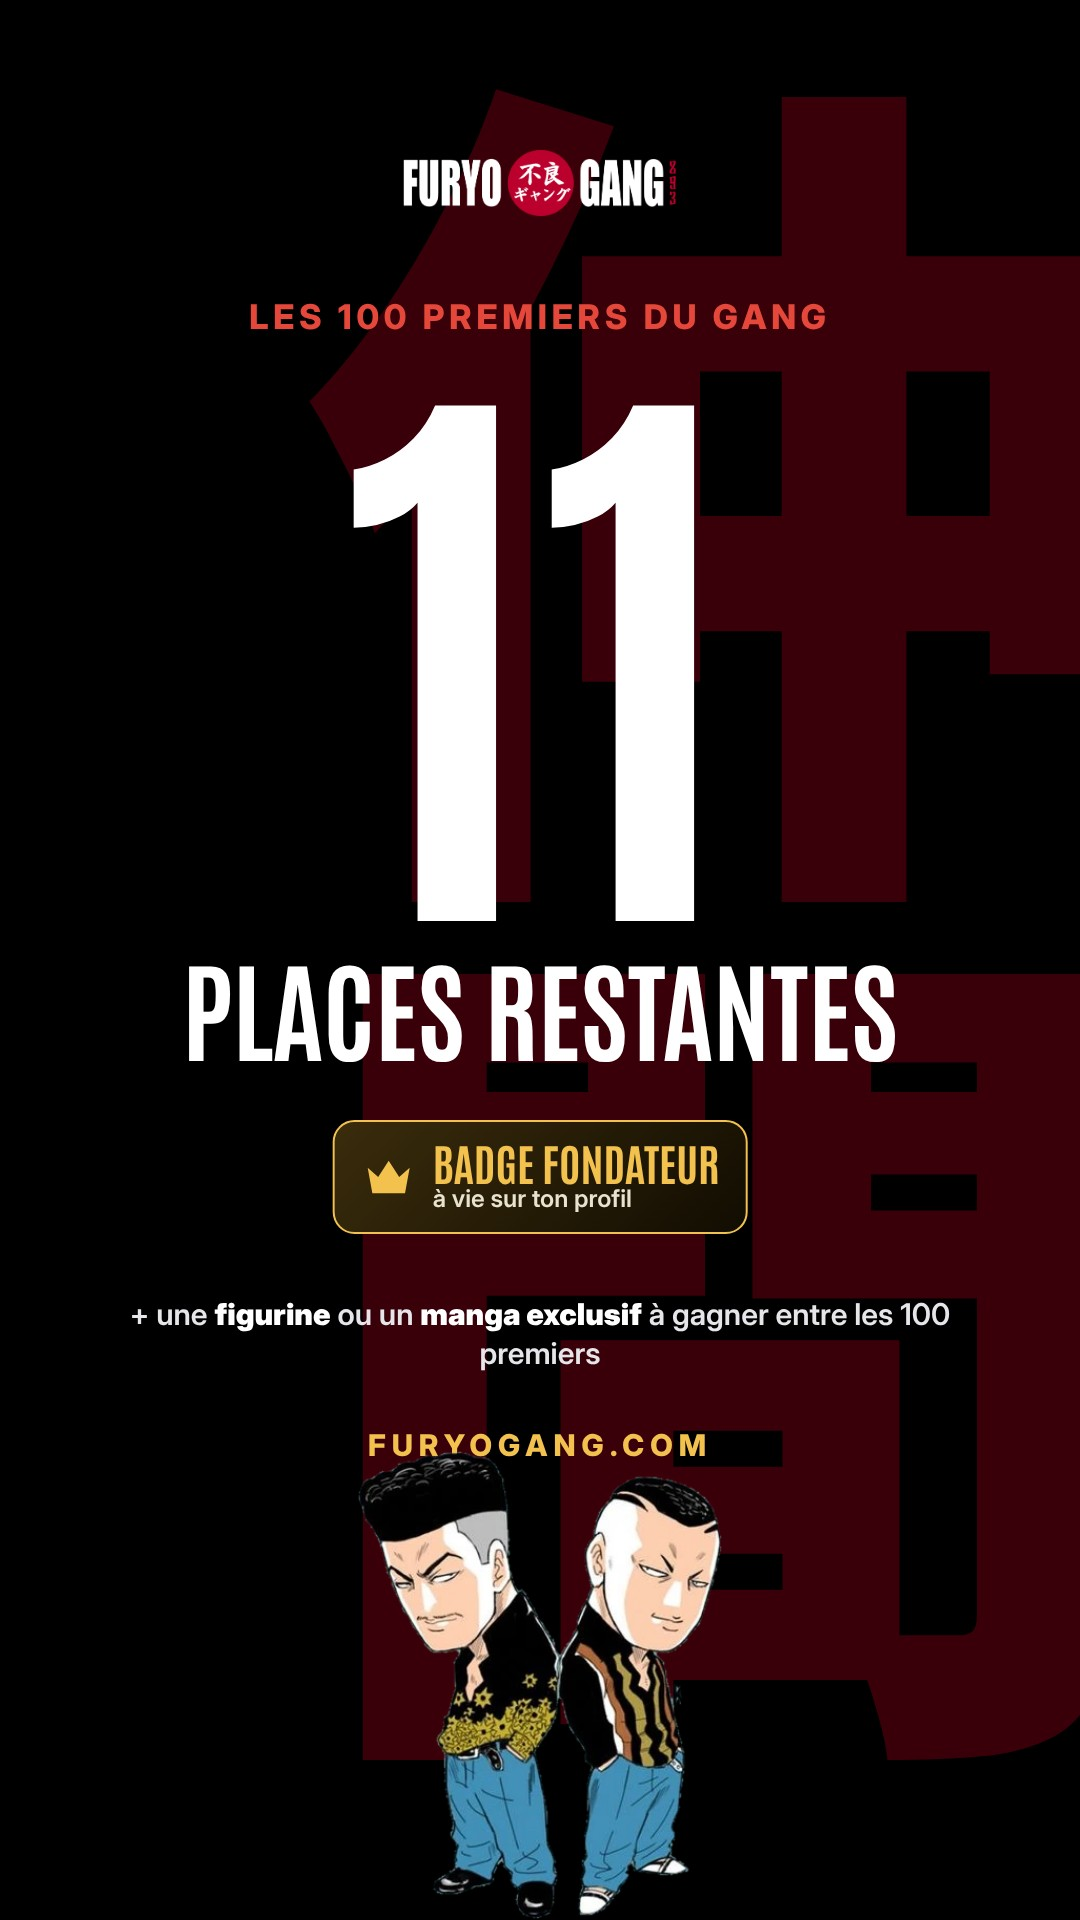
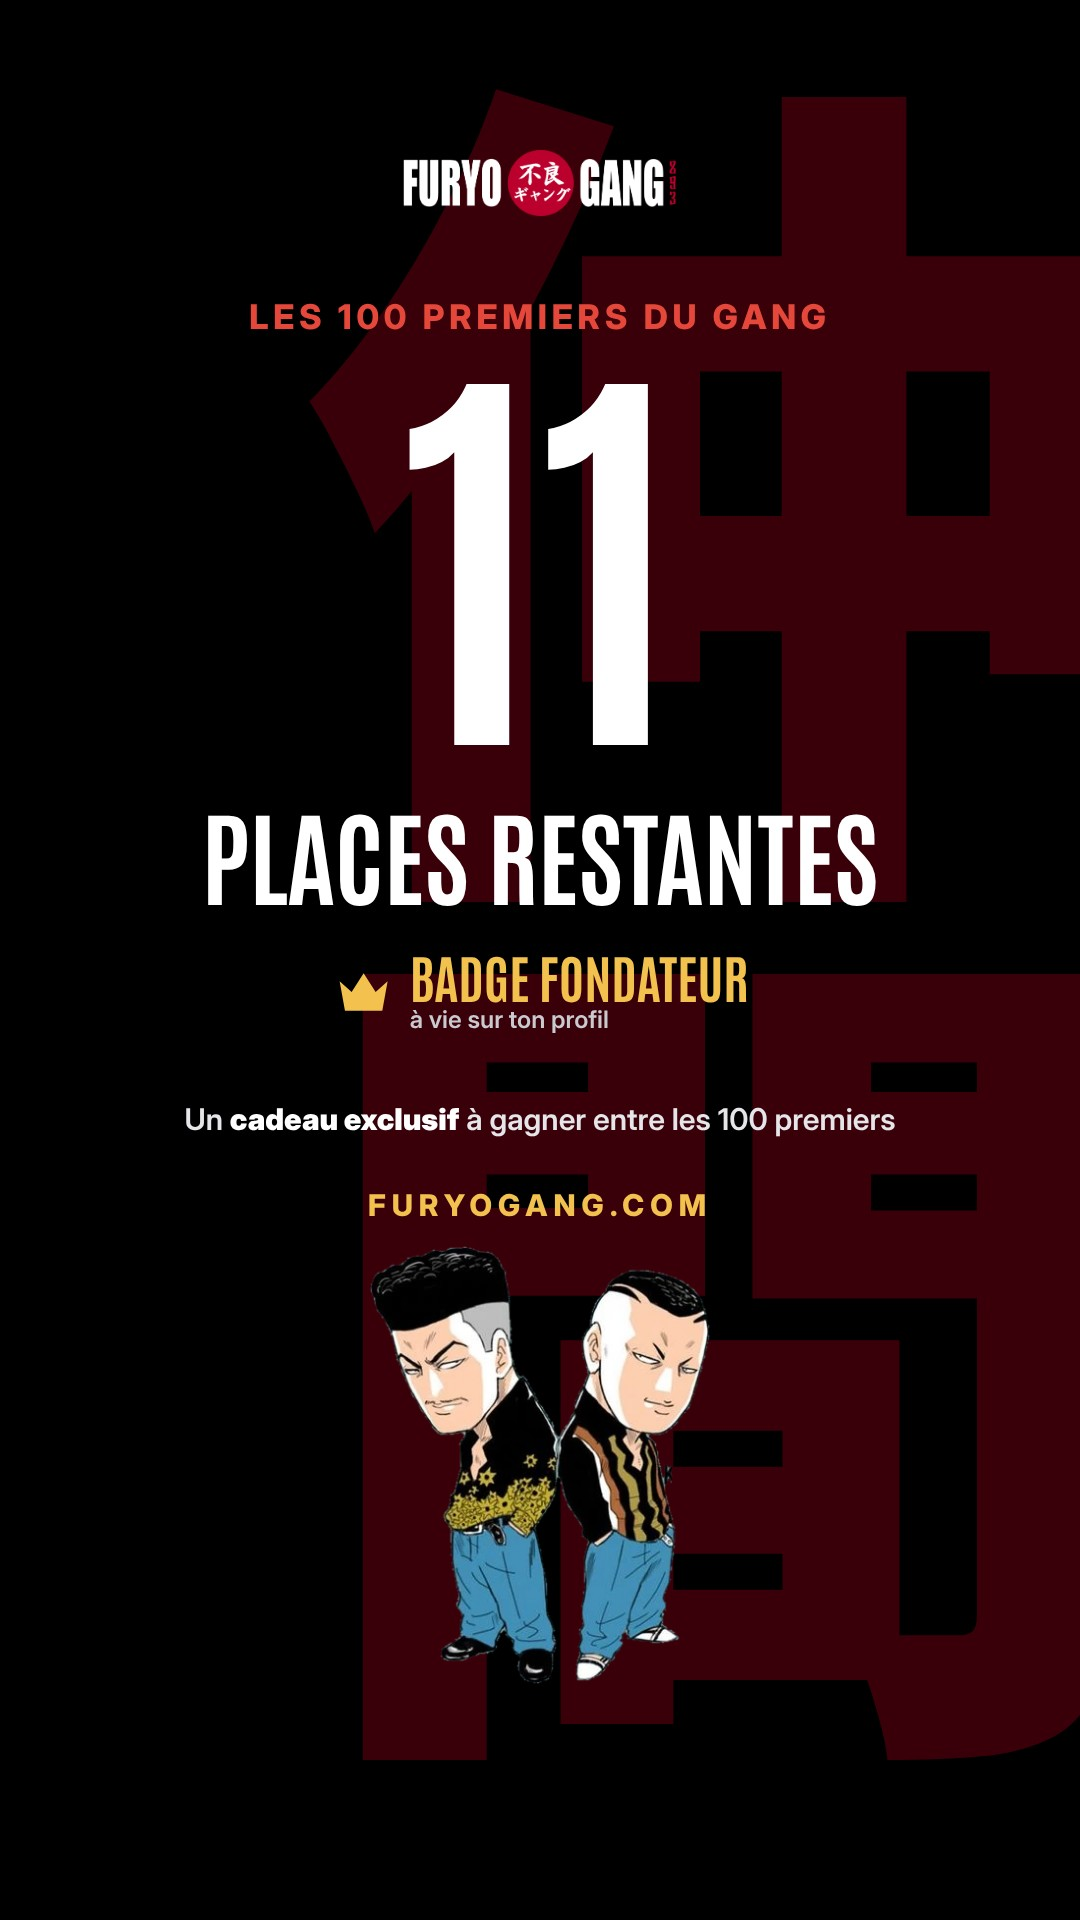
Visuel 100 premiers : badge plat sans cadre, « cadeau exclusif », place pour le lien en story, version X 16:9
Claude-Session: https://claude.ai/code/session_01ShgbxL6GpEPzbudUpDfTjj

Changed region(s): [[0.1528, 0.1875, 0.825, 1.0], [0.1528, 0.6562, 0.3056, 0.7188], [0.8556, 0.6562, 0.8861, 0.6875]]

diff --git a/modeles/cent-premiers.html b/modeles/cent-premiers.html
@@ -8,8 +8,8 @@ body{margin:0;background:#333}.c{position:relative;overflow:hidden;background:#0
 .lab{position:absolute;font:800 34px/1 I;color:#E5483A;letter-spacing:.14em;text-transform:uppercase}
 .big{position:absolute;font:700 1px/.82 A}
 .t1{position:absolute;font:700 1px/1 A;text-transform:uppercase}
-.badge{position:absolute;display:flex;align-items:center;gap:16px;background:linear-gradient(135deg,#3a2c0c,#120d02);border:2px solid #F2C14E;border-radius:22px;padding:18px 26px}
-.badge svg{width:56px;height:56px;color:#F2C14E;flex:none}.badge b{display:block;font:700 44px/1 A;color:#F2C14E;text-transform:uppercase}.badge span{font:600 24px/1.25 I;color:#e8e2cf}
+.badge{position:absolute;display:flex;align-items:center;gap:14px}
+.badge svg{width:64px;height:64px;color:#F2C14E;flex:none}.badge b{display:block;font:700 52px/1 A;color:#F2C14E;text-transform:uppercase}.badge span{display:block;font:600 24px/1.2 I;color:#c9c9cf;margin-top:4px}
 .gift{position:absolute;font:600 30px/1.3 I;color:#e6e6ea}.gift b{color:#fff}
 .url{position:absolute;font:800 30px/1 I;letter-spacing:.2em;color:#F2C14E}
 .duo{position:absolute;object-fit:contain;object-position:bottom right}
@@ -21,17 +21,26 @@ body{margin:0;background:#333}.c{position:relative;overflow:hidden;background:#0
 <div class="big n" style="left:62px;top:250px;font-size:520px">11</div>
 <div class="t1" style="left:72px;top:760px;font-size:92px;line-height:1">places<br>restantes</div>
 <div class="badge" style="left:72px;top:985px"><svg viewBox="0 0 24 24" fill="currentColor"><path d="M3 8l4.5 4L12 5l4.5 7L21 8l-2 11H5z"/></svg><div><b>Badge Fondateur</b><span>à vie sur ton profil</span></div></div>
-<div class="gift" style="left:72px;top:1140px;width:560px">+ une <b>figurine</b> ou un <b>manga exclusif</b> à gagner entre les 100 premiers</div>
+<div class="gift" style="left:72px;top:1140px;width:560px">Un <b>cadeau exclusif</b> à gagner entre les 100 premiers</div>
 <div class="url" style="left:72px;top:1275px">FURYOGANG.COM</div>
 <img class="duo" src="/img/don/duo.webp" style="right:30px;bottom:0;height:640px;width:520px"></div>
 <div class="c" id="s"><div class="wm" style="right:-80px;top:40px;font-size:860px">仲間</div>
 <img class="logo" src="/img/social/logo-blanc.png" style="left:50%;transform:translateX(-50%);top:150px;height:66px">
 <div class="lab" style="left:0;right:0;text-align:center;top:300px">Les 100 premiers du gang</div>
-<div class="big n" style="left:0;right:0;text-align:center;top:370px;font-size:600px">11</div>
-<div class="t1" style="left:0;right:0;text-align:center;top:950px;font-size:110px">places restantes</div>
-<div class="badge" style="left:50%;transform:translateX(-50%);top:1120px"><svg viewBox="0 0 24 24" fill="currentColor"><path d="M3 8l4.5 4L12 5l4.5 7L21 8l-2 11H5z"/></svg><div><b>Badge Fondateur</b><span>à vie sur ton profil</span></div></div>
-<div class="gift" style="left:120px;right:120px;text-align:center;top:1295px">+ une <b>figurine</b> ou un <b>manga exclusif</b> à gagner entre les 100 premiers</div>
-<div class="url" style="left:0;right:0;text-align:center;top:1430px">FURYOGANG.COM</div>
-<img class="duo" src="/img/don/duo.webp" style="left:50%;transform:translateX(-50%);bottom:0;height:470px;width:500px;object-position:bottom center"></div>
+<div class="big n" style="left:0;right:0;text-align:center;top:360px;font-size:420px">11</div>
+<div class="t1" style="left:0;right:0;text-align:center;top:800px;font-size:104px">places restantes</div>
+<div class="badge" style="left:50%;transform:translateX(-50%);top:950px"><svg viewBox="0 0 24 24" fill="currentColor"><path d="M3 8l4.5 4L12 5l4.5 7L21 8l-2 11H5z"/></svg><div><b>Badge Fondateur</b><span>à vie sur ton profil</span></div></div>
+<div class="gift" style="left:120px;right:120px;text-align:center;top:1100px">Un <b>cadeau exclusif</b> à gagner entre les 100 premiers</div>
+<div class="url" style="left:0;right:0;text-align:center;top:1190px">FURYOGANG.COM</div>
+<img class="duo" src="/img/don/duo.webp" style="left:50%;transform:translateX(-50%);top:1245px;height:440px;width:520px;object-position:bottom center"></div>
+<div class="c" id="x" style="width:1600px;height:900px"><div class="wm" style="right:330px;top:-60px;font-size:520px">仲間</div>
+<img class="logo" src="/img/social/logo-blanc.png" style="left:80px;top:62px;height:52px">
+<div class="lab" style="left:80px;top:160px;font-size:30px">Les 100 premiers du gang</div>
+<div class="big n" style="left:70px;top:210px;font-size:340px">11</div>
+<div class="t1" style="left:80px;top:530px;font-size:84px">places restantes</div>
+<div class="badge" style="left:80px;top:640px"><svg viewBox="0 0 24 24" fill="currentColor"><path d="M3 8l4.5 4L12 5l4.5 7L21 8l-2 11H5z"/></svg><div><b>Badge Fondateur</b><span>à vie sur ton profil</span></div></div>
+<div class="gift" style="left:80px;top:760px">Un <b>cadeau exclusif</b> à gagner entre les 100 premiers</div>
+<div class="url" style="left:80px;top:825px">FURYOGANG.COM</div>
+<img class="duo" src="/img/don/duo.webp" style="right:60px;bottom:0;height:820px;width:640px"></div>
 <script>var n=new URLSearchParams(location.search).get("n");if(n)document.querySelectorAll(".n").forEach(function(e){e.textContent=n});</script>
 </body></html>
